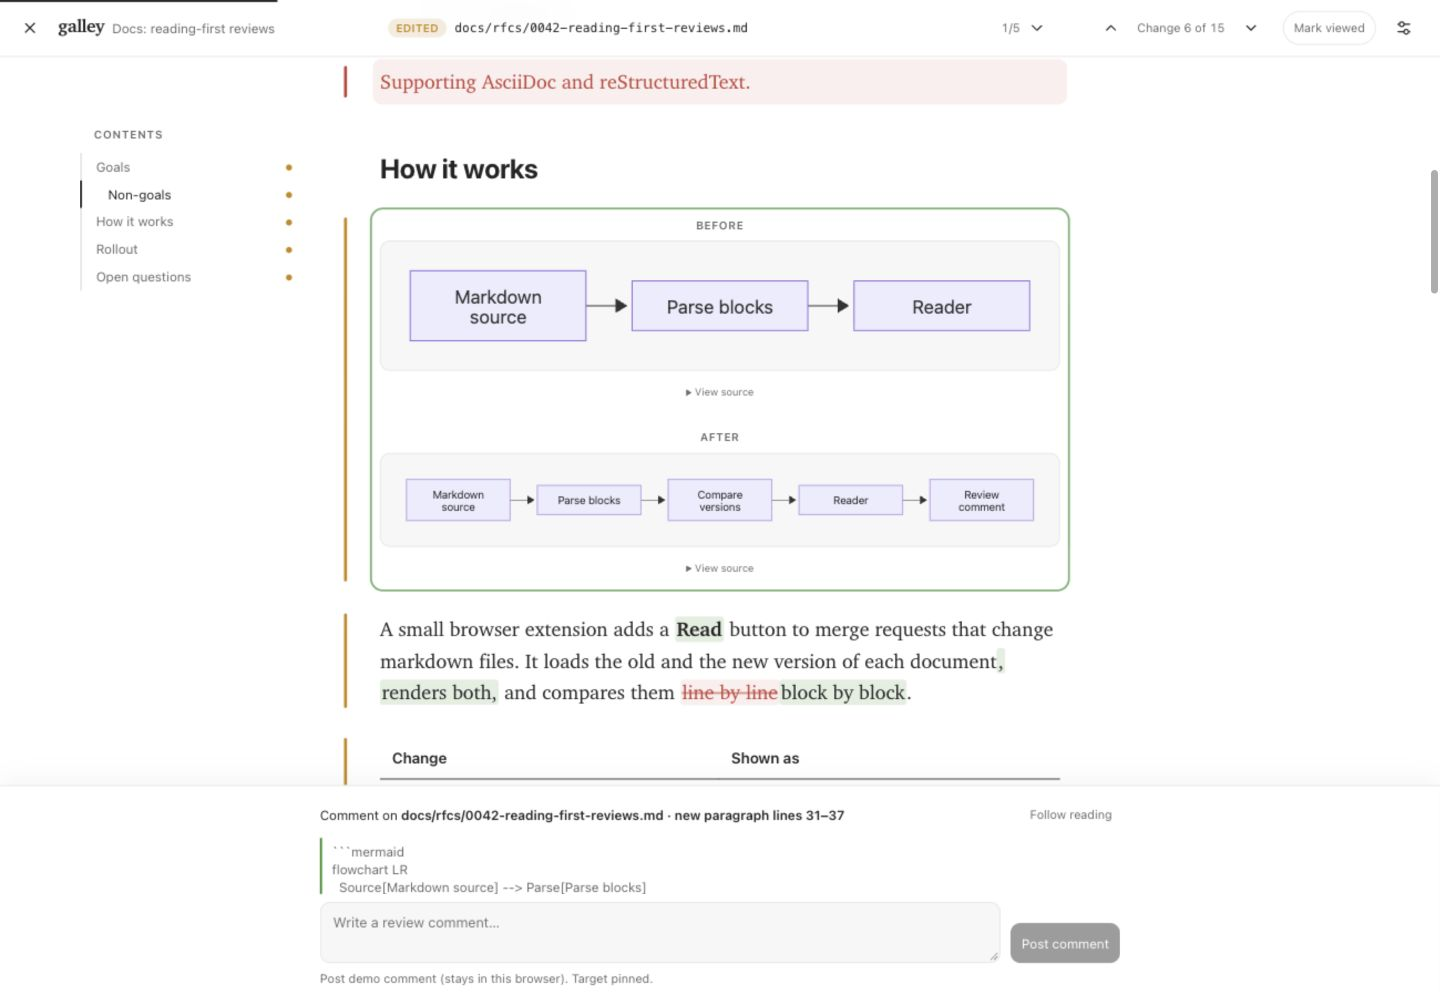
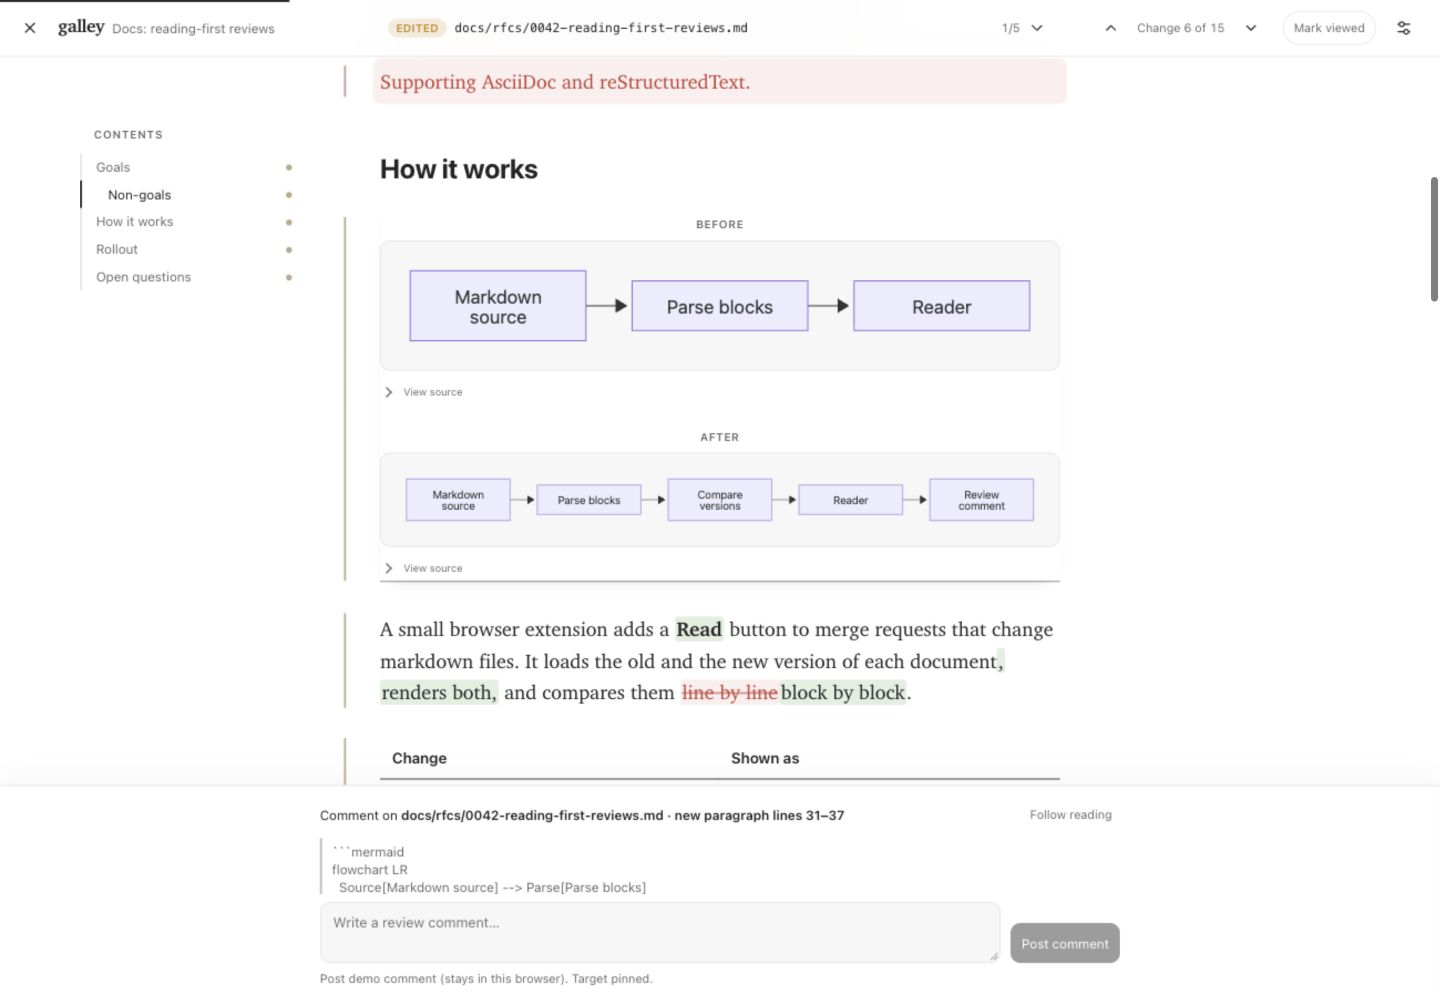
Soften reading guidance and change markers; add disclosure arrows

diff --git a/src/ui/reader.css b/src/ui/reader.css
@@ -16,6 +16,9 @@
   --add-bg: rgba(26, 137, 23, 0.14);
   --add-wash: rgba(26, 137, 23, 0.06);
   --mod: #c58a0c;
+  --gutter-added: #a1b5a2;
+  --gutter-modified: #b9ac8d;
+  --gutter-removed: #c0a09e;
   --del: #c4413a;
   --del-bg: rgba(196, 65, 58, 0.09);
   --shadow: 0 12px 32px rgba(0, 0, 0, 0.12), 0 2px 6px rgba(0, 0, 0, 0.06);
@@ -57,6 +60,9 @@
   --soft: #efe4cf;
   --rule: #e3d5ba;
   --code-bg: #f2e8d4;
+  --gutter-added: #a0ac95;
+  --gutter-modified: #b5a17c;
+  --gutter-removed: #bc9d91;
   --add-wash: rgba(26, 137, 23, 0.07);
 }
 
@@ -72,6 +78,9 @@
   --add-bg: rgba(63, 185, 80, 0.24);
   --add-wash: rgba(63, 185, 80, 0.08);
   --mod: #e3b341;
+  --gutter-added: #607766;
+  --gutter-modified: #857956;
+  --gutter-removed: #876564;
   --del: #ff7b72;
   --del-bg: rgba(255, 123, 114, 0.13);
   --shadow: 0 12px 32px rgba(0, 0, 0, 0.55);
@@ -912,12 +921,10 @@
 @keyframes mr-flash {
   0%,
   35% {
-    outline: 2px solid var(--accent);
-    outline-offset: 0.45em;
+    background-color: color-mix(in srgb, var(--fg) 5%, var(--bg));
   }
   100% {
-    outline: 2px solid transparent;
-    outline-offset: 0.45em;
+    background-color: transparent;
   }
 }
 
@@ -932,9 +939,9 @@
 .mr-mark {
   position: absolute;
   left: 0;
-  width: 3px;
-  border-radius: 3px;
-  background: var(--mod);
+  width: 2px;
+  border-radius: 2px;
+  background: var(--gutter-modified);
   cursor: pointer;
 }
 
@@ -945,11 +952,11 @@
 }
 
 .mr-mark.is-added {
-  background: var(--add);
+  background: var(--gutter-added);
 }
 
 .mr-mark.is-removed {
-  background: var(--del);
+  background: var(--gutter-removed);
 }
 
 .mr-mark.is-point {
@@ -1020,7 +1027,7 @@
   width: 6px;
   height: 6px;
   margin-left: auto;
-  color: var(--mod);
+  color: var(--gutter-modified);
   transform: translateY(-1px);
 }
 
@@ -1196,7 +1203,17 @@
 .mr-root [hidden] { display: none !important; }
 .mr-main { padding-bottom: calc(var(--composer-height, 180px) + 110px); }
 .mr-document + .mr-document { margin-top: 90px; }
-.mr-content .mr-reading { outline: 2px solid color-mix(in srgb, var(--accent) 55%, var(--rule)); outline-offset: 8px; border-radius: 3px; }
+/* A quiet baseline follows reading; a pinned comment gets a slightly firmer underline. */
+.mr-root .mr-content .mr-reading {
+  --reading-wash: 0 0 0 0 transparent;
+  box-shadow: var(--reading-wash), 0 1px 0 color-mix(in srgb, var(--fg) 20%, transparent), 0 7px 12px -12px color-mix(in srgb, var(--fg) 24%, transparent);
+  transition: box-shadow 160ms ease;
+}
+.has-pinned-target .mr-content .mr-reading {
+  box-shadow: var(--reading-wash), 0 1px 0 color-mix(in srgb, var(--fg) 38%, transparent), 0 8px 14px -12px color-mix(in srgb, var(--fg) 30%, transparent);
+}
+.mode-changes .mr-content [data-mr-change="added"].mr-reading { --reading-wash: 0 0 0 0.35em var(--add-wash); }
+.mode-changes .mr-content .mr-ghost.mr-reading { --reading-wash: 0 0 0 0.35em var(--del-bg); }
 .mr-empty-changes { color: var(--muted); font-size: 15px; }
 .mr-comment-receipt { font-family: var(--sans); font-size: 12px; color: var(--accent); }
 .mr-comment-receipt a { color: inherit; }
@@ -1216,7 +1233,7 @@
 .mr-comment-context label { min-width: 0; flex: 1; overflow-wrap: anywhere; }
 .mr-comment-target { font-weight: 600; }
 .mr-comment-context .mr-btn { color: var(--muted); font-size: 12px; padding: 0 8px; }
-.mr-comment-quote { margin: 0 0 8px; padding: 4px 10px; border-left: 2px solid var(--accent); max-height: 48px; overflow: auto; color: var(--muted); white-space: pre-wrap; }
+.mr-comment-quote { margin: 0 0 8px; padding: 4px 10px; border-left: 2px solid color-mix(in srgb, var(--muted) 45%, transparent); max-height: 48px; overflow: auto; color: var(--muted); white-space: pre-wrap; }
 .mr-comment-row { display: flex; align-items: flex-end; gap: 10px; }
 .mr-comment-row textarea {
   box-sizing: border-box;
@@ -1246,8 +1263,25 @@
 }
 
 .mr-content .mr-context-gap { margin: 18px 0; list-style: none; font: 12px/1.4 var(--sans); }
-.mr-context-toggle { appearance: none; width: 100%; padding: 10px 12px; border: 1px dashed var(--rule); border-radius: 8px; background: transparent; color: var(--muted); font: inherit; cursor: pointer; text-align: left; }
-.mr-context-toggle:hover, .mr-context-toggle:focus-visible { color: var(--fg); border-color: var(--accent); background: var(--soft); }
+.mr-context-toggle {
+  appearance: none; display: flex; align-items: center; gap: 10px;
+  width: 100%; min-height: 38px; padding: 8px 4px; border: 0; border-radius: 4px;
+  background: transparent; color: var(--muted); font: inherit; cursor: pointer; text-align: left;
+}
+.mr-context-toggle::after { content: ''; flex: 1; height: 1px; margin-left: 4px; background: var(--rule); }
+.mr-context-toggle:hover { color: var(--fg); background: var(--soft); }
+.mr-context-toggle:focus-visible { outline: 2px solid var(--muted); outline-offset: 2px; color: var(--fg); }
+/* The same right/down disclosure arrow is used for context, metadata and diagram source. */
+.mr-content summary { display: flex; align-items: center; gap: 10px; list-style: none; }
+.mr-content summary::-webkit-details-marker { display: none; }
+.mr-content summary::marker { content: ''; }
+.mr-context-toggle::before, .mr-content summary::before {
+  content: ''; flex: none; width: 6px; height: 6px; margin: 0 3px;
+  border-right: 1.5px solid currentColor; border-bottom: 1.5px solid currentColor;
+  transform: rotate(-45deg); transition: transform 140ms ease;
+}
+.mr-context-toggle[aria-expanded="true"]::before, .mr-content details[open] > summary::before { transform: rotate(45deg); }
+@media (max-width: 760px) { .mr-context-toggle { min-height: 44px; } }
 
 @media (max-width: 760px) {
   .mr-pill-label { min-width: 0; padding: 0 2px; font-size: 11px; }
@@ -1341,7 +1375,8 @@
 .mr-code-line[data-mr-change="added"] { background: var(--add-wash); }
 .mr-code-line[data-mr-change="removed"] { background: var(--del-bg); color: var(--del); }
 .mr-content .mr-code-line.mr-ghost { margin: 0; padding-top: 0; padding-bottom: 0; border: 0; text-decoration: none; }
-.mr-content .mr-code-line.mr-reading { outline-offset: -2px; border-radius: 0; }
+.mr-content .mr-code-line.mr-reading { box-shadow: inset 0 -1px 0 color-mix(in srgb, var(--fg) 25%, transparent); }
+.has-pinned-target .mr-content .mr-code-line.mr-reading { box-shadow: inset 0 -1px 0 color-mix(in srgb, var(--fg) 42%, transparent); }
 .mr-code-lines .mr-context-gap { padding: 0 12px; }
 .mode-clean .mr-code-line[data-mr-change="added"] { background: transparent; }
 @media (max-width: 760px) { .mr-code-lines { width: 100%; } .mr-code-line { grid-template-columns: 32px 32px 18px minmax(0, 1fr); font-size: 12px; } }

diff --git a/src/ui/reader.ts b/src/ui/reader.ts
@@ -216,8 +216,8 @@ class Reader {
     this.textarea = q('#mr-comment') as HTMLTextAreaElement;
     this.submit = q('.mr-submit') as HTMLButtonElement;
     this.el.composer.addEventListener('submit', (e) => { e.preventDefault(); void this.postComment(); });
-    this.textarea.addEventListener('focus', () => { if (this.target) this.pinned = true; });
-    this.textarea.addEventListener('input', () => { if (this.target) this.pinned = true; this.updateSubmit(); });
+    this.textarea.addEventListener('focus', () => { if (this.target) this.pinned = true; this.syncTargetCue(); });
+    this.textarea.addEventListener('input', () => { if (this.target) this.pinned = true; this.syncTargetCue(); this.updateSubmit(); });
     this.root.addEventListener('mouseup', (e) => this.captureSelection(e));
     this.el.doc.replaceChildren(this.skeleton());
 
@@ -820,6 +820,7 @@ class Reader {
           this.pinned = true;
           this.el.commentQuote.hidden = !this.target;
         }
+        this.syncTargetCue();
         if (!this.target) this.el.commentStatus.textContent = 'Scroll to a paragraph to choose a comment target.';
         return;
       case 'retry':
@@ -883,12 +884,17 @@ class Reader {
     }
   }
 
+  private syncTargetCue(): void {
+    this.root.classList.toggle('has-pinned-target', Boolean(this.target) && this.pinned);
+  }
+
   private clearTarget(): void {
     this.planToken++;
     this.target = null;
     this.plan = null;
     for (const el of this.targetEls) el.classList.remove('mr-reading');
     this.targetEls = [];
+    this.syncTargetCue();
     this.el.commentTarget.textContent = 'a paragraph';
     this.el.commentQuote.hidden = true;
     this.updateSubmit();
@@ -897,6 +903,7 @@ class Reader {
   private setTarget(target: CommentTarget | null, elements: HTMLElement[]): void {
     if (!target) return;
     if (this.target?.doc === target.doc && this.target.side === target.side && this.target.startLine === target.startLine && this.target.endLine === target.endLine && this.target.quote === target.quote) {
+      this.syncTargetCue();
       this.el.commentQuote.hidden = !this.pinned || !target.quote;
       if (this.plan) this.el.commentStatus.textContent = `${this.plan.label}. ${this.pinned ? 'Target pinned.' : 'Target follows your reading position.'}`;
       return;
@@ -905,6 +912,7 @@ class Reader {
     this.target = target;
     this.targetEls = elements;
     for (const el of elements) el.classList.add('mr-reading');
+    this.syncTargetCue();
     this.el.commentTarget.textContent = `${target.side === 'base' ? target.doc.oldPath : target.doc.path} · ${target.side === 'base' ? 'old' : 'new'} ${target.doc.kind === 'code' ? 'source' : 'paragraph'} lines ${target.startLine}–${target.endLine}`;
     this.el.commentQuote.textContent = target.quote;
     this.el.commentQuote.hidden = !this.pinned || !target.quote;
@@ -931,6 +939,7 @@ class Reader {
     const plan = this.plan, target = this.target, elements = [...this.targetEls];
     this.submitting = true;
     this.pinned = true;
+    this.syncTargetCue();
     this.textarea.disabled = true;
     this.updateSubmit();
     this.el.commentStatus.textContent = 'Posting comment…';

diff --git a/src/ui/reading.ts b/src/ui/reading.ts
@@ -42,9 +42,10 @@ export function filterDocument(r: RenderedDoc, changedOnly: boolean): void {
     const button = r.content.ownerDocument.createElement('button');
     button.type = 'button';
     button.className = 'mr-context-toggle';
-    button.textContent = `${isExpanded ? 'Hide' : 'Show'} ${gap.blocks.length} unchanged ${r.isCode ? gap.blocks.length === 1 ? 'line' : 'lines' : gap.blocks.length === 1 ? 'block' : 'blocks'}`;
+    button.textContent = `${gap.blocks.length} unchanged ${r.isCode ? gap.blocks.length === 1 ? 'line' : 'lines' : gap.blocks.length === 1 ? 'block' : 'blocks'}`;
+    button.setAttribute('aria-label', `${isExpanded ? 'Collapse' : 'Expand'} ${button.textContent}`);
     button.setAttribute('aria-expanded', String(isExpanded));
-    button.title = 'Reveal or collapse nearby context';
+    button.title = `${isExpanded ? 'Collapse' : 'Expand'} nearby unchanged content`;
     button.addEventListener('click', () => {
       for (const block of gap.blocks) isExpanded ? expanded.delete(block.el) : expanded.add(block.el);
       filterDocument(r, true);

diff --git a/test/reading.test.ts b/test/reading.test.ts
@@ -85,7 +85,9 @@ test('each hidden stretch can reveal and collapse context independently, retaini
   const before = r.blocks.find((block) => block.el.textContent === 'Kept before.')!.el;
   const after = r.blocks.find((block) => block.el.textContent === 'Kept after.')!.el;
   assert.equal(before.hidden, true); assert.equal(after.hidden, true);
+  assert.equal(r.content.querySelector('.mr-context-toggle')!.getAttribute('aria-label'), 'Expand 1 unchanged block');
   (r.content.querySelector('.mr-context-toggle') as HTMLButtonElement).click();
+  assert.equal(r.content.querySelector('.mr-context-toggle')!.getAttribute('aria-label'), 'Collapse 1 unchanged block');
   assert.equal(before.hidden, false); assert.equal(after.hidden, true);
   filterDocument(r, true);
   assert.equal(before.hidden, false);

diff --git a/README.md b/README.md
@@ -16,7 +16,7 @@ RFCs, ADRs, runbooks and guides are reviewed in the same monospaced diff as code
 | --- | --- |
 | ![Table and paragraph edits](store/assets/screenshot-3-tables.jpg) | ![Clean mode in the dark theme](store/assets/screenshot-4-clean-dark.jpg) |
 
-The reader opens all changed documents in one continuous stream, showing changed paragraphs by default. Each hidden stretch has a **Show unchanged blocks** control for nearby context; **Entire files** restores every paragraph. A quiet outline follows your reading position. Click a paragraph or select a phrase to pin a comment target, then write in the bottom composer and post an ordinary GitHub or GitLab review comment.
+The reader opens all changed documents in one continuous stream, showing changed paragraphs by default. Each hidden stretch has an arrow control to expand or collapse nearby unchanged content; **Entire files** restores every paragraph. A subtle neutral underline follows your reading position and becomes slightly firmer when a comment target is pinned. Click a paragraph or select a phrase to pin a comment target, then write in the bottom composer and post an ordinary GitHub or GitLab review comment.
 
 ## Try it
 
